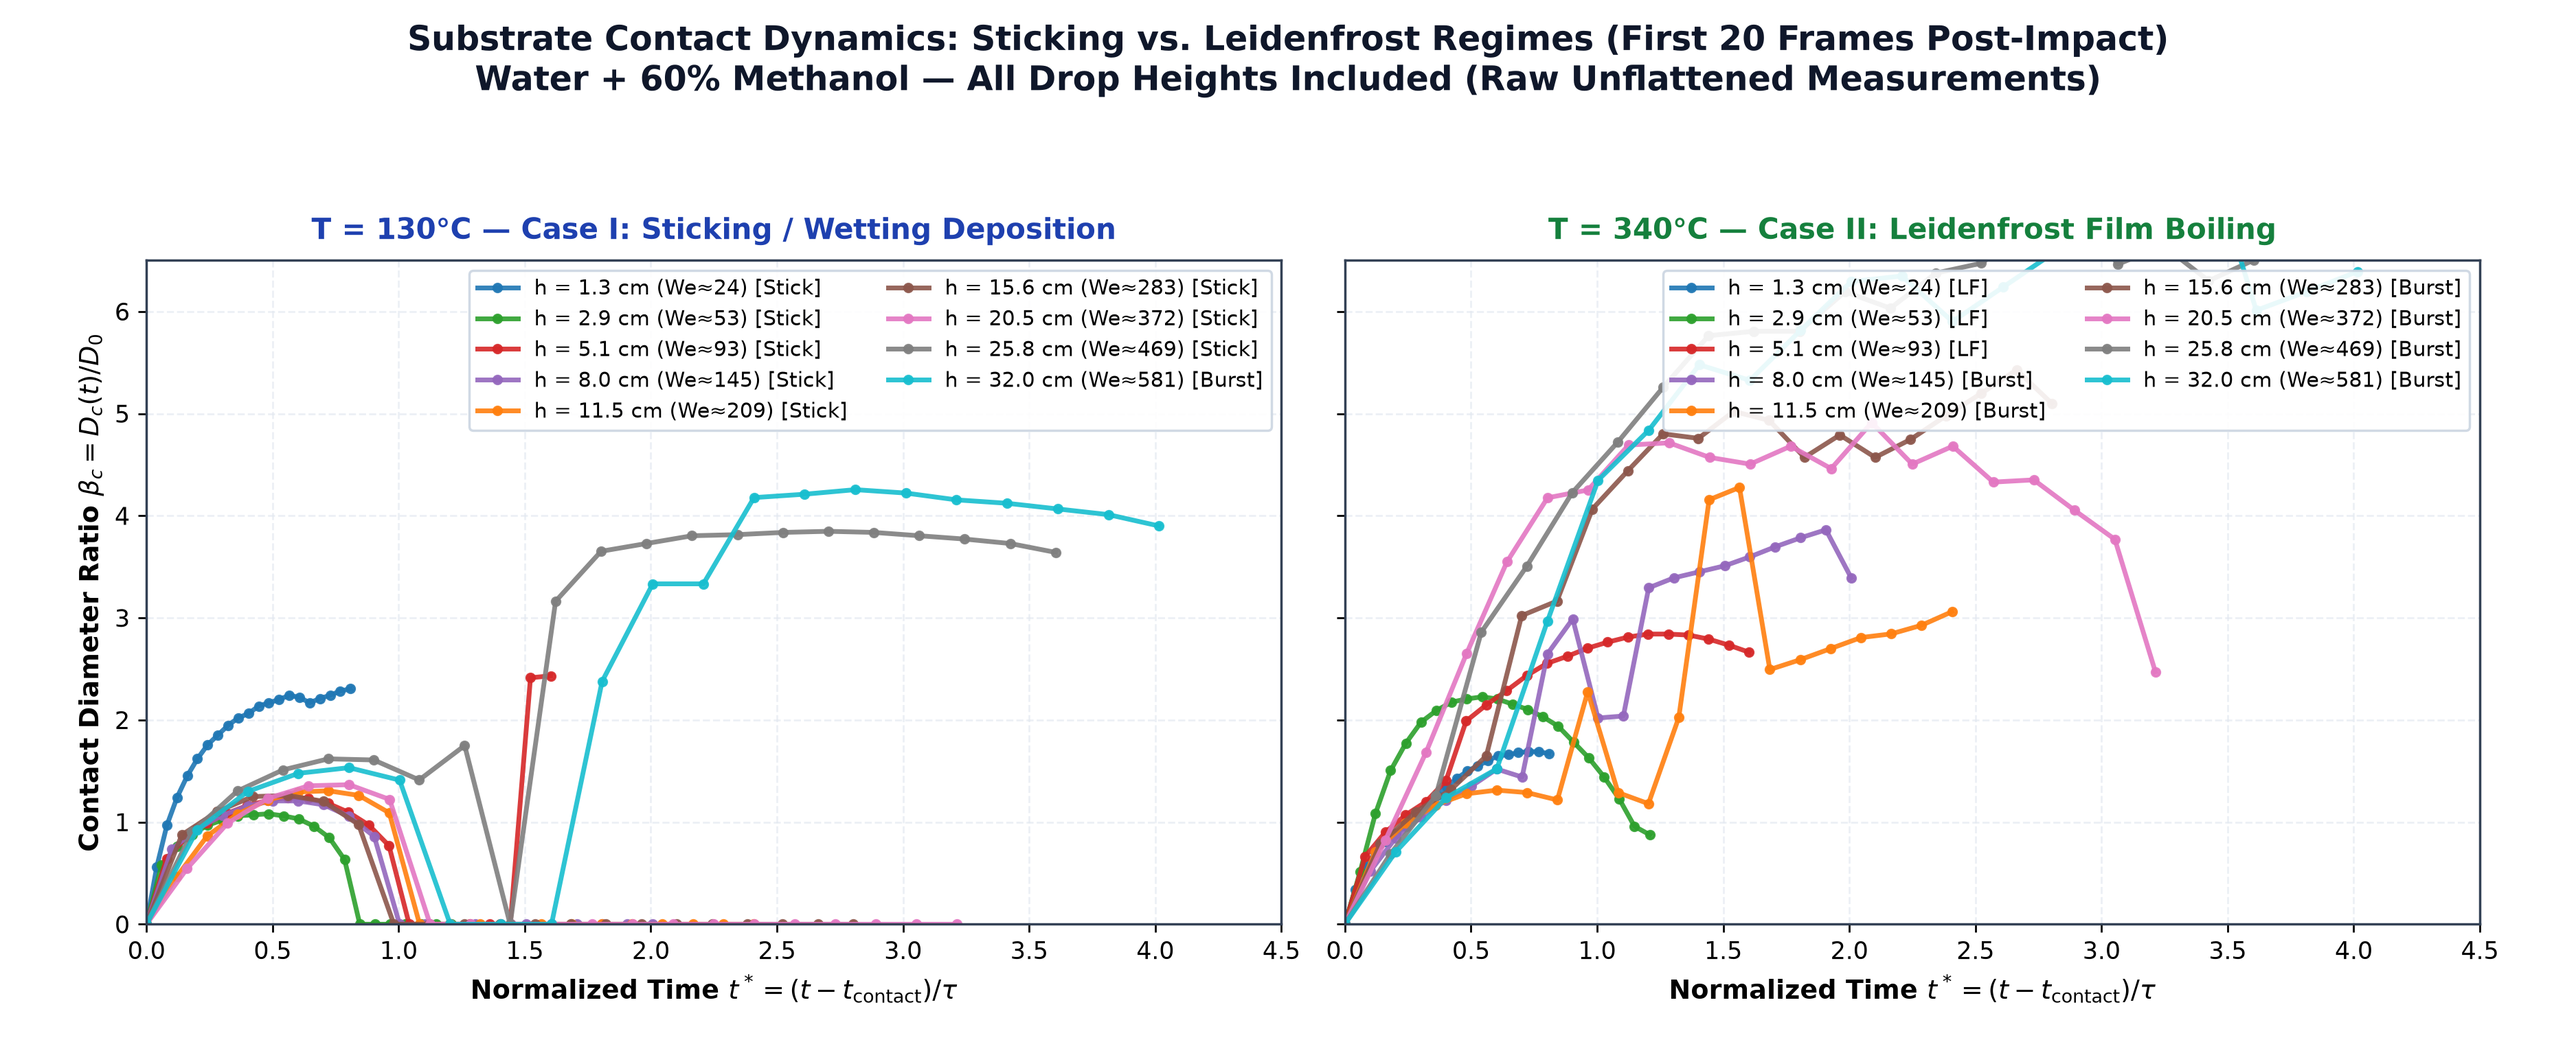
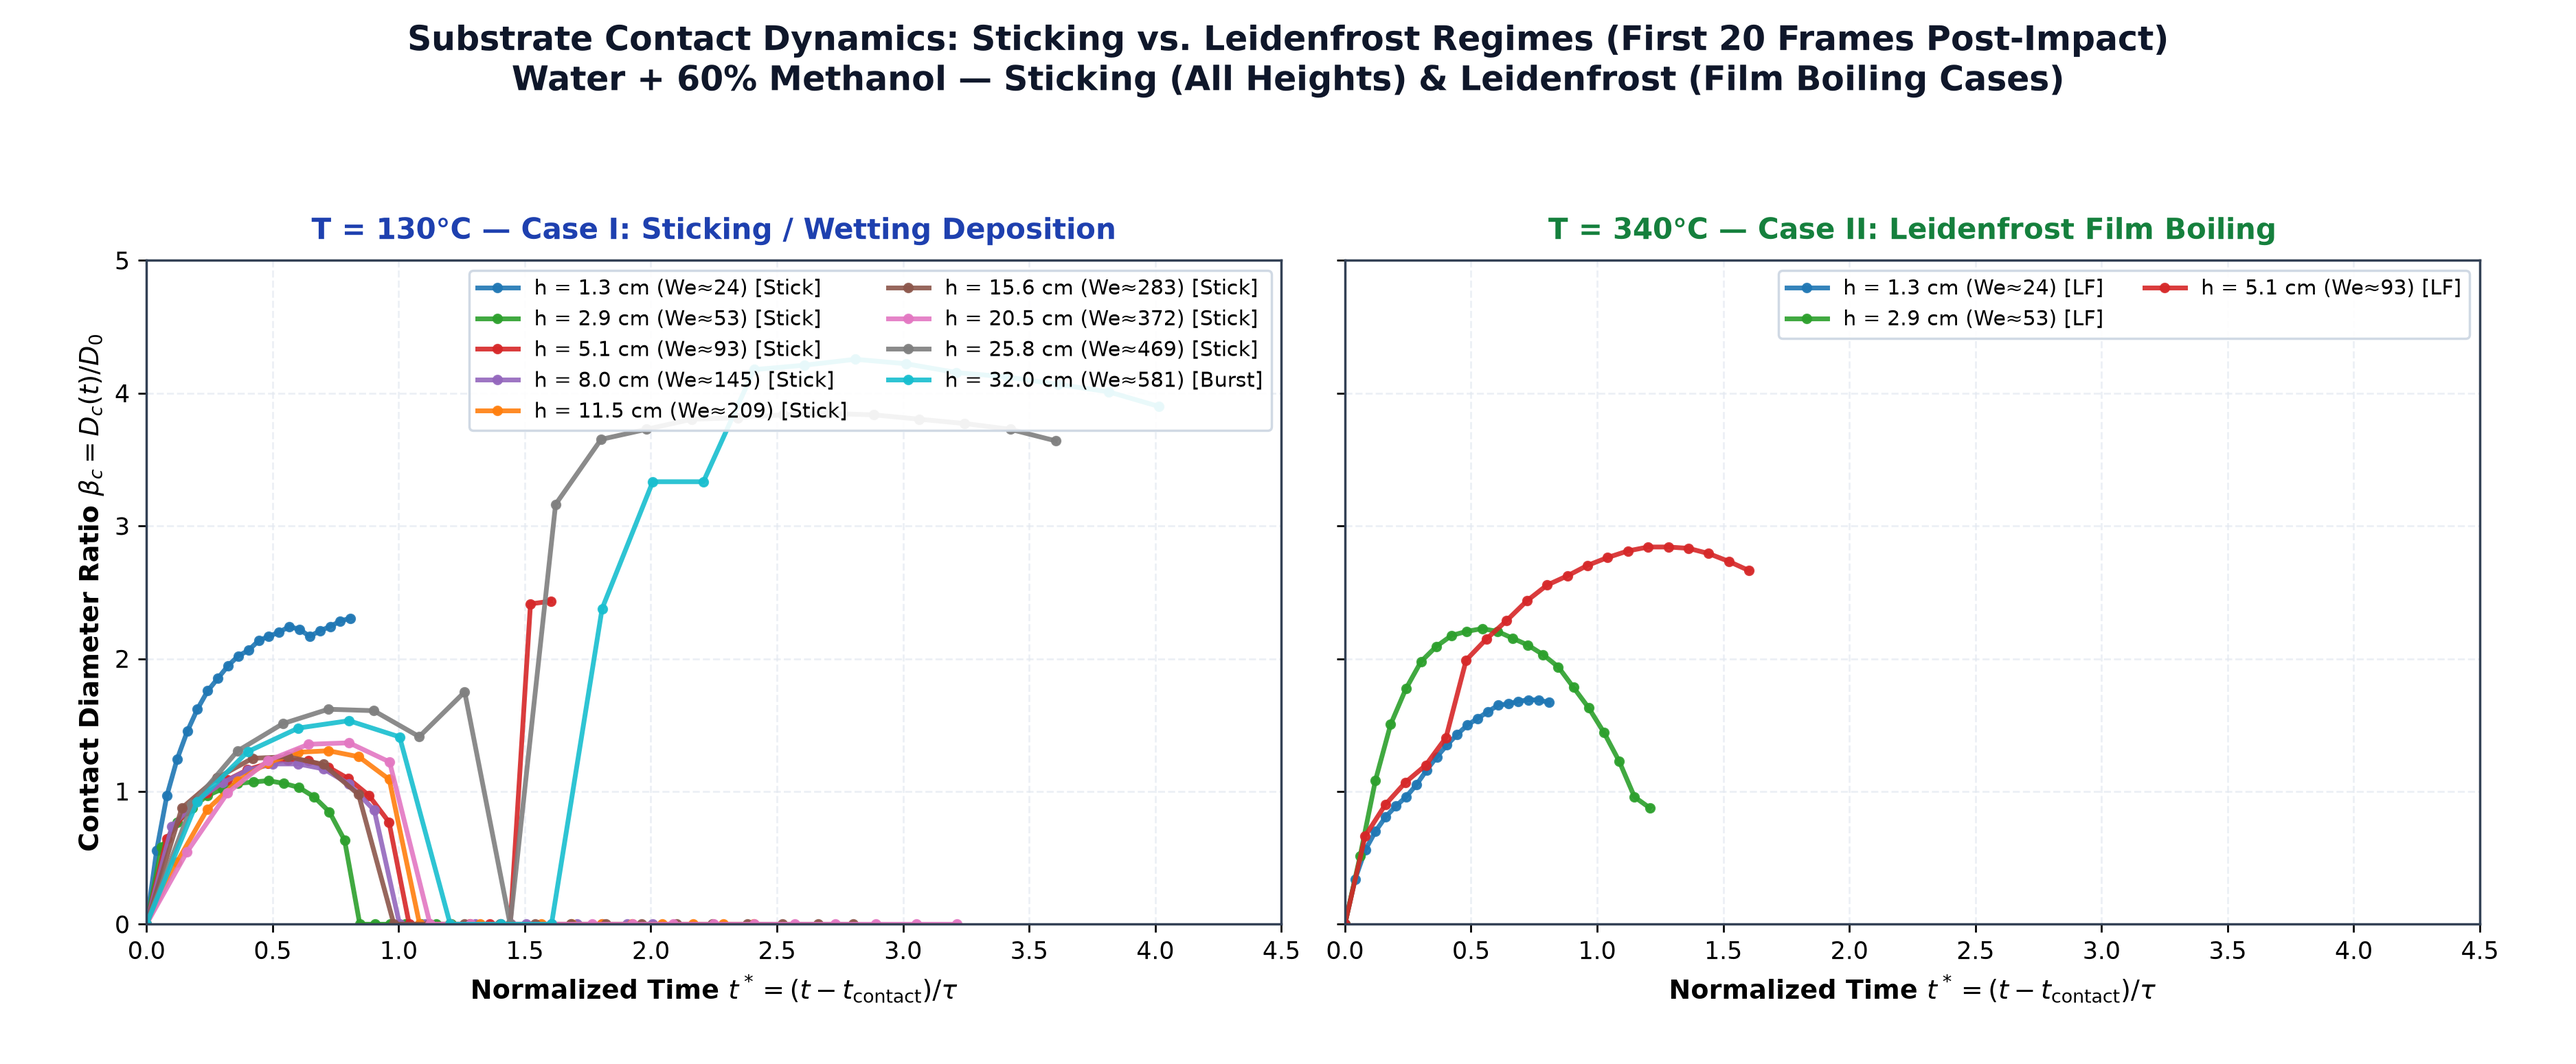
Filter out high-velocity bursting cases from 340C Leidenfrost film boiling panel in Category 7

diff --git a/generate_plot_2_suite.py b/generate_plot_2_suite.py
@@ -1334,6 +1334,11 @@ def generate_category_7_four_regime_array(df):
                 we = float(r_case['Weber_Number'])
                 reg = str(r_case['Final_Regime'])
 
+                # In Leidenfrost panel, exclude cases where high impact inertia suppresses
+                # the vapor film causing thermal bursting rather than true film boiling
+                if temp_val == 340 and reg != 'Leidenfrost':
+                    continue
+
                 csv_path = os.path.join(fl_dir, h_fld, c_fld, 'measurements_data.csv')
                 if not os.path.isfile(csv_path):
                     continue
@@ -1377,7 +1382,7 @@ def generate_category_7_four_regime_array(df):
 
         fig.suptitle(
             f"Substrate Contact Dynamics: Sticking vs. Leidenfrost Regimes (First 20 Frames Post-Impact)\n"
-            f"{label} — All Drop Heights Included (Raw Unflattened Measurements)",
+            f"{label} — Sticking (All Heights) & Leidenfrost (Film Boiling Cases)",
             fontsize=14.0, fontweight='bold', y=0.98, color='#0f172a'
         )
 
